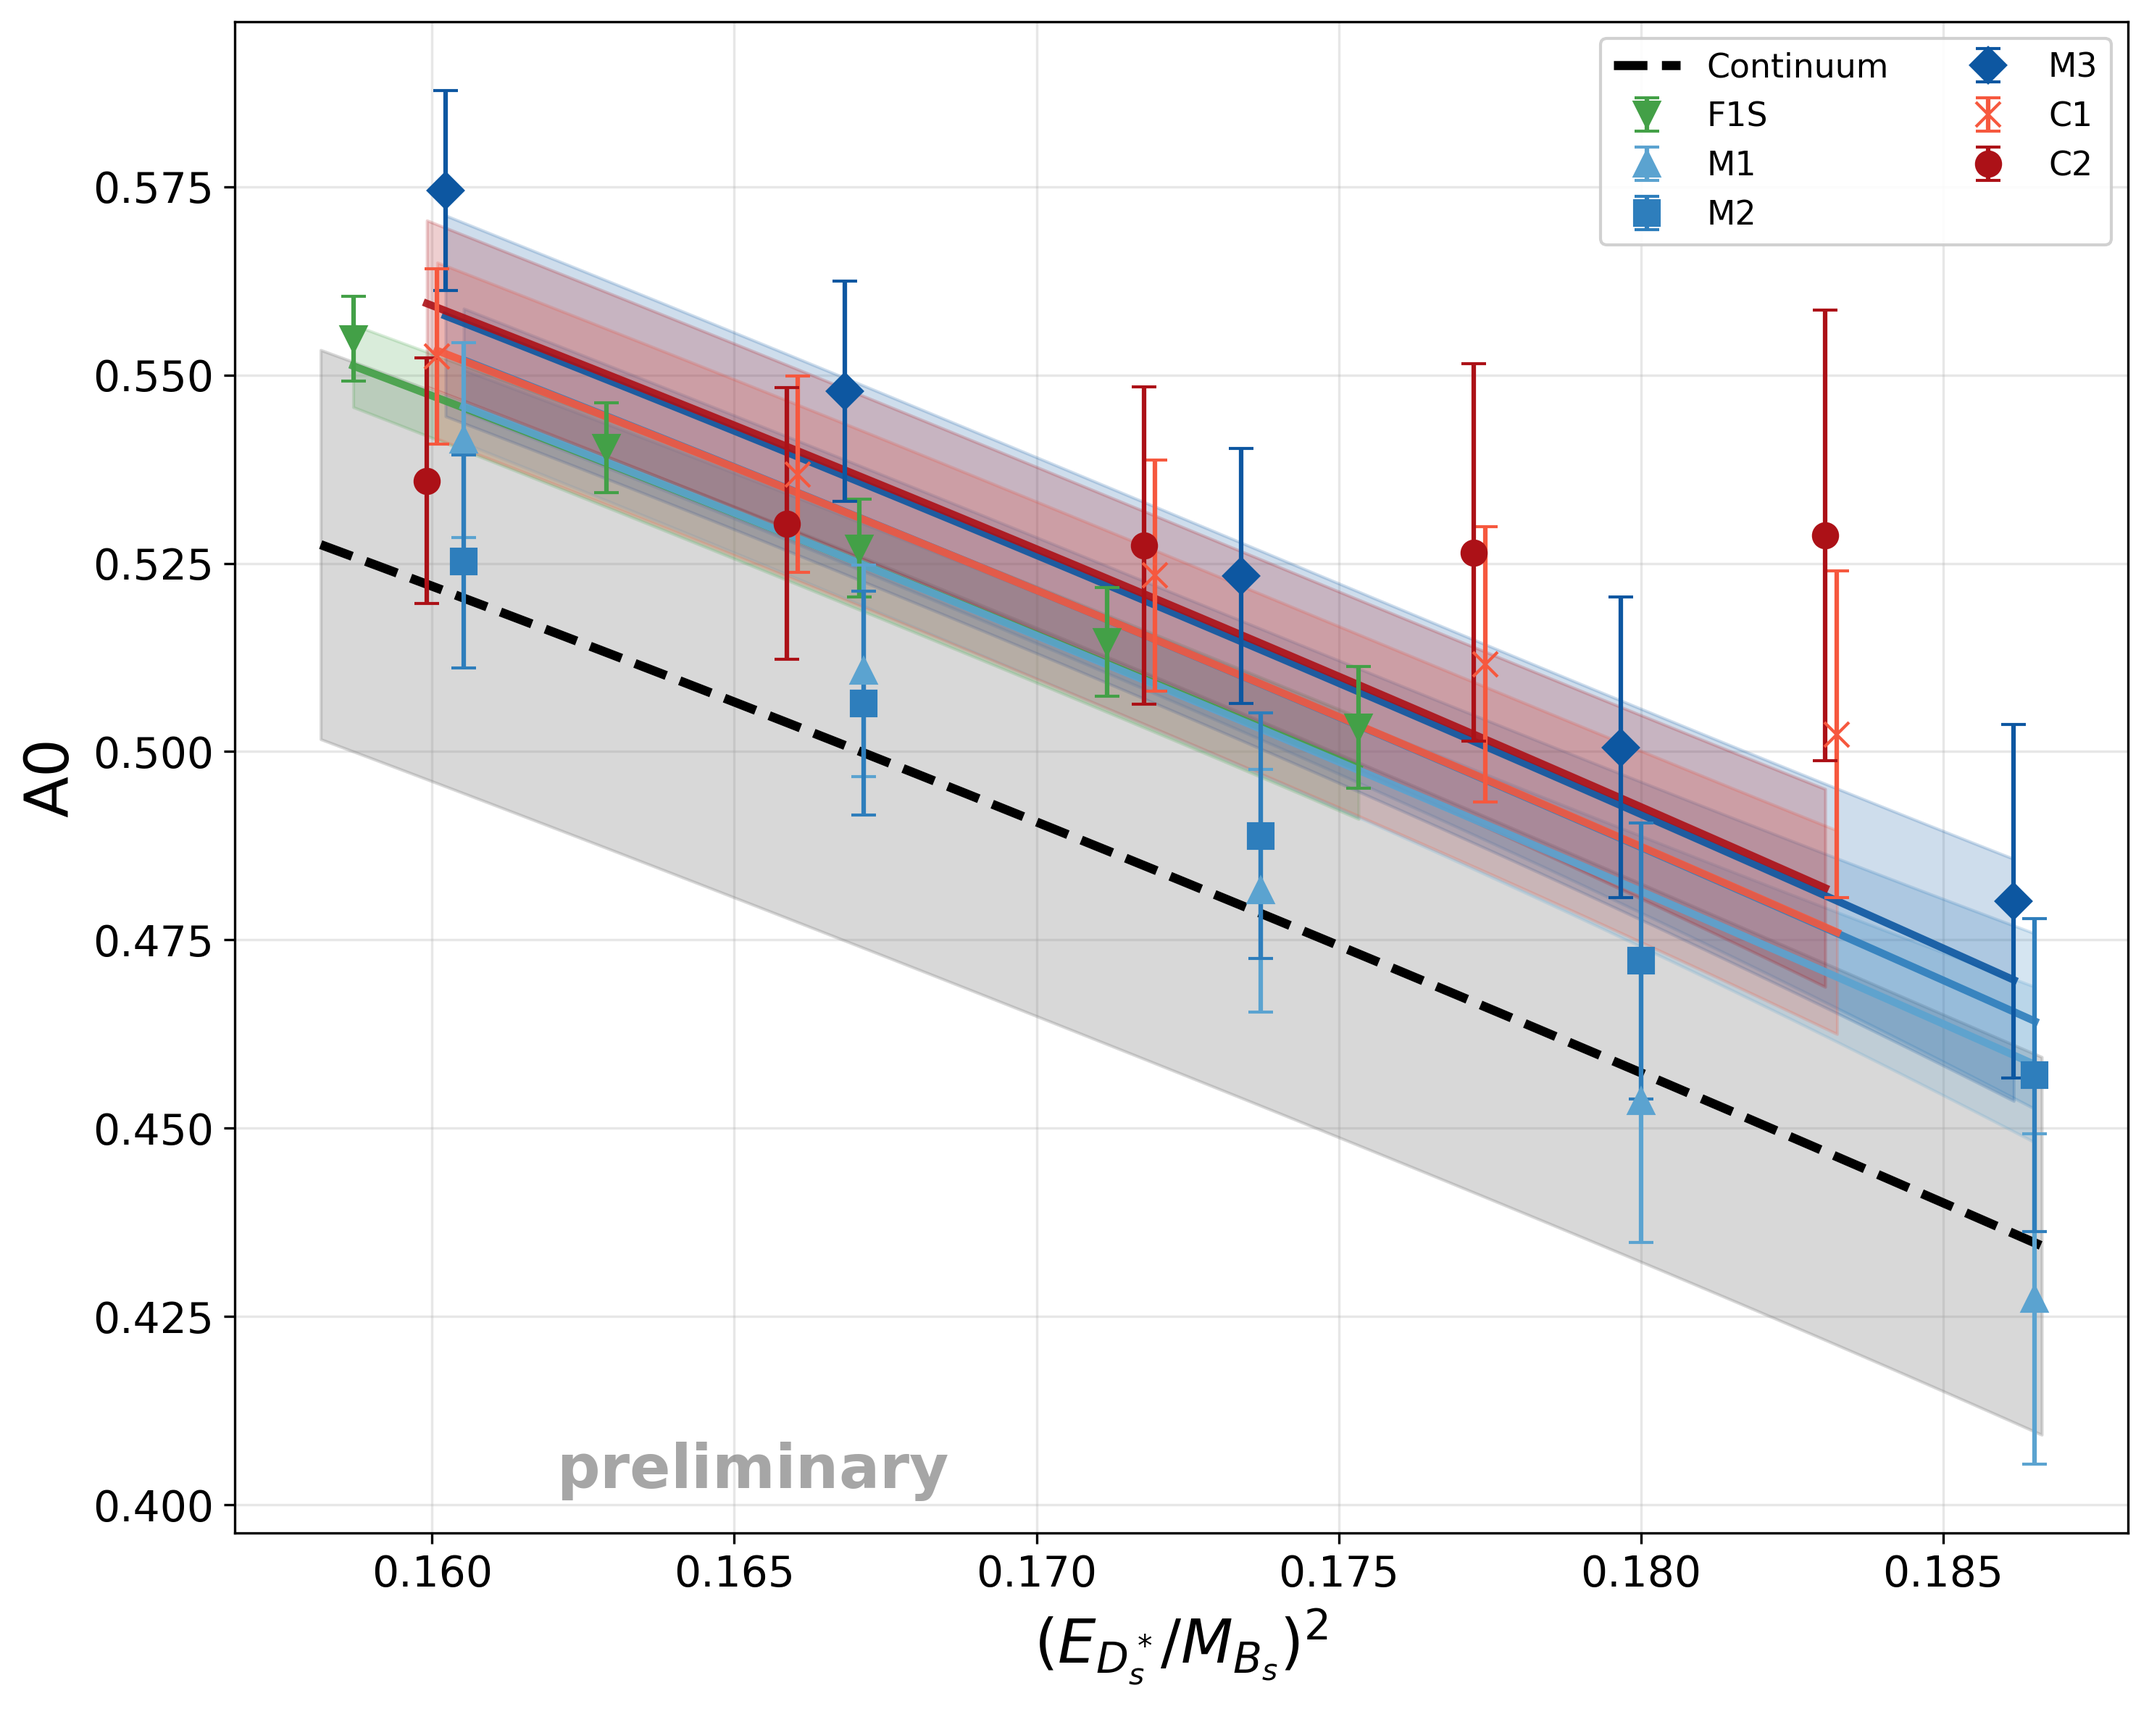
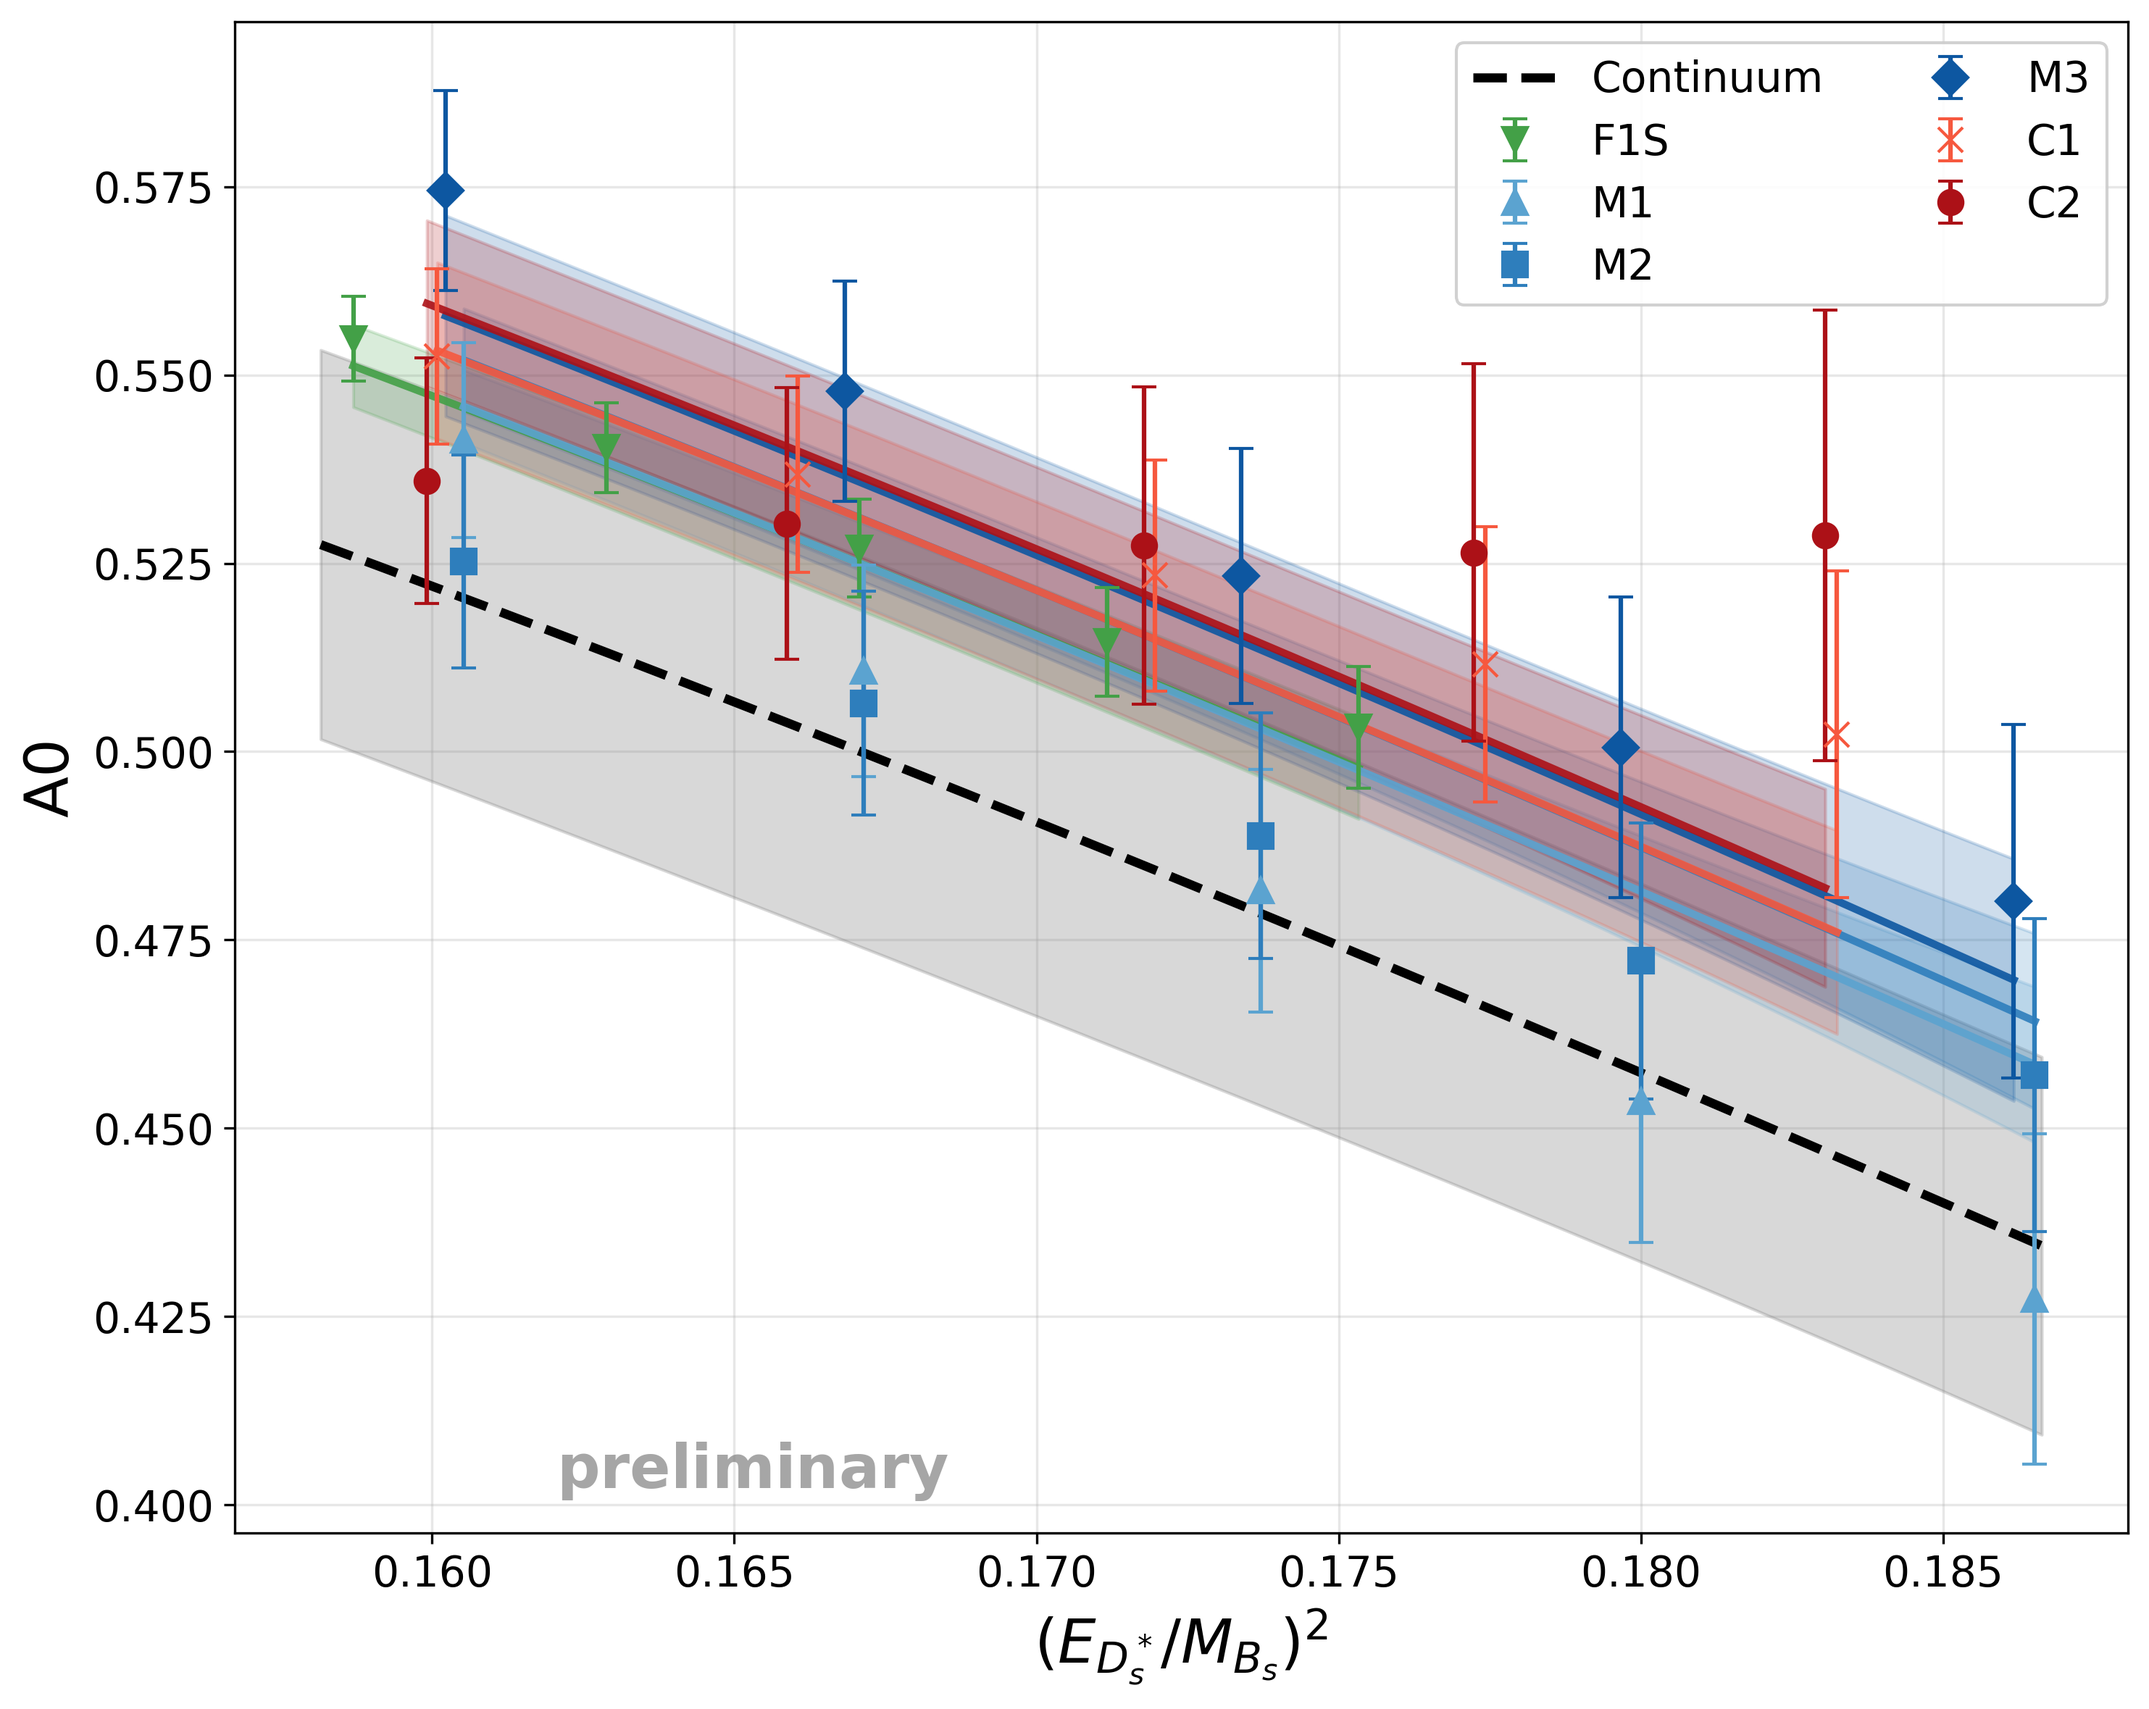
Chiral fit

Changed region(s): [[0.7444, 0.0, 0.9926, 0.1857], [0.6824, 0.0309, 0.7134, 0.1857]]

diff --git a/Code/Chiral-new.py b/Code/Chiral-new.py
@@ -513,7 +513,7 @@ def plot_results(FF, ensemble_data, fit_result, data_dict):
     ax.set_xlabel(r'$(E_{D_s^*}/M_{B_s})^2$', fontsize=20)
     ax.set_ylabel(f'{FF}', fontsize=20)
     ax.grid(True, alpha=0.3)
-    ax.legend(fontsize=11, framealpha=0.9, loc='best', ncol=2)
+    ax.legend(fontsize=14, framealpha=0.9, loc='best', ncol=2)
     ax.tick_params(labelsize=14)
     ax.annotate(r'$\bf{preliminary}$', xy=(0.17, 0.03), xycoords='axes fraction',
              fontsize=20, color='grey', alpha=.7)
